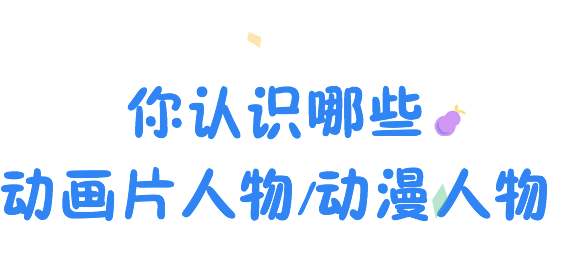
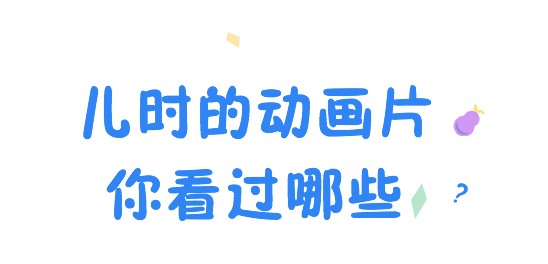
额鹅鹅鹅

Changed region(s): [[0.0, 0.6364, 0.9617, 0.8485], [0.1241, 0.303, 0.8996, 0.5455], [0.4033, 0.1212, 0.4653, 0.1818]]

diff --git a/css/styles.less b/css/styles.less
@@ -248,7 +248,8 @@ html,body{
                                 >div{
                                     &:nth-child(1){
                                         background-position: 0 0;
-                                        background-color: #ed8b7a;
+                                        background-color: #bc567a;
+                                        
                                     }
                                   
                                 }
@@ -256,8 +257,9 @@ html,body{
                             &:nth-child(2){
                                 >div{
                                     &:nth-child(1){
-                                        background-position: -1.80rem 0;
-                                        background-color: #bc567a;
+                                        background-position: -1.70rem 0;
+                                        background-color: #56bcb8;
+                                        
                                     }
                                     
                                 }
@@ -266,7 +268,8 @@ html,body{
                                 >div{
                                     &:nth-child(1){
                                         background-position: -3.60rem 0;
-                                        background-color: #56bcb8;
+                                        background-color: #ed8b7a;
+                                        
                                     }
                                  
                                 }
@@ -274,7 +277,7 @@ html,body{
                             &:nth-child(4){
                                 >div{
                                     &:nth-child(1){
-                                        background-position: -5.40rem 0;
+                                        background-position: -5.50rem 0;
                                         background-color: #4b7ebd;
                                     }
                                    

diff --git a/css/styles.css b/css/styles.css
@@ -252,21 +252,21 @@ body section.choose.choose_01 .choose_content > ul > li > div:nth-child(1) {
 html section.choose.choose_01 .choose_content > ul > li:nth-child(1) > div:nth-child(1),
 body section.choose.choose_01 .choose_content > ul > li:nth-child(1) > div:nth-child(1) {
   background-position: 0 0;
-  background-color: #ed8b7a;
+  background-color: #bc567a;
 }
 html section.choose.choose_01 .choose_content > ul > li:nth-child(2) > div:nth-child(1),
 body section.choose.choose_01 .choose_content > ul > li:nth-child(2) > div:nth-child(1) {
-  background-position: -1.8rem 0;
-  background-color: #bc567a;
+  background-position: -1.7rem 0;
+  background-color: #56bcb8;
 }
 html section.choose.choose_01 .choose_content > ul > li:nth-child(3) > div:nth-child(1),
 body section.choose.choose_01 .choose_content > ul > li:nth-child(3) > div:nth-child(1) {
   background-position: -3.6rem 0;
-  background-color: #56bcb8;
+  background-color: #ed8b7a;
 }
 html section.choose.choose_01 .choose_content > ul > li:nth-child(4) > div:nth-child(1),
 body section.choose.choose_01 .choose_content > ul > li:nth-child(4) > div:nth-child(1) {
-  background-position: -5.4rem 0;
+  background-position: -5.5rem 0;
   background-color: #4b7ebd;
 }
 html section.choose.choose_01 .choose_content > ul > li:nth-child(5) > div:nth-child(1),

diff --git a/index.html b/index.html
@@ -112,7 +112,7 @@
     <section class="choose choose_01">
         <div>
             <p></p>
-            <p>在你认识的人物中画勾勾</p>
+            <p>在你看过的动画片中画勾勾</p>
         </div>
         <div class="choose_content" id="persion_choose">
             <ul>
